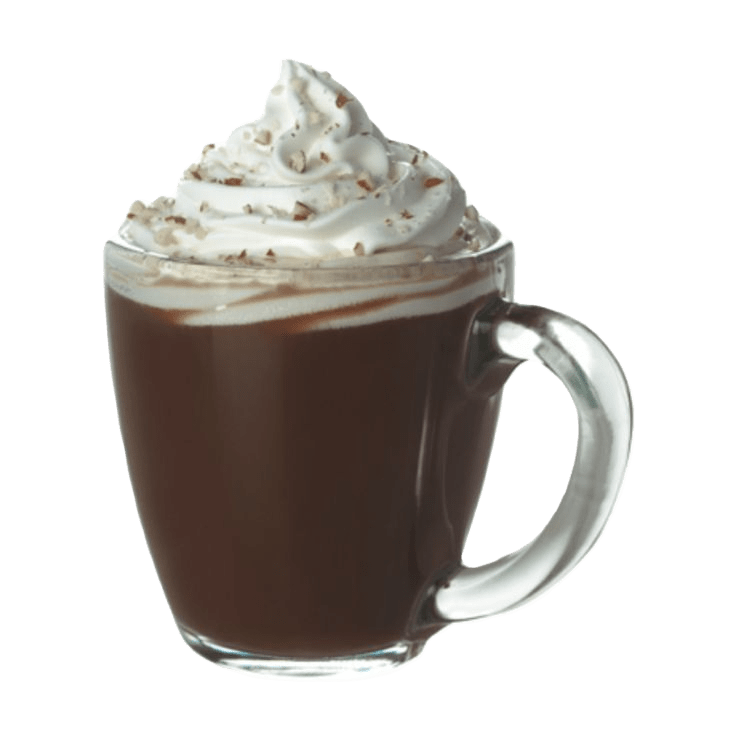
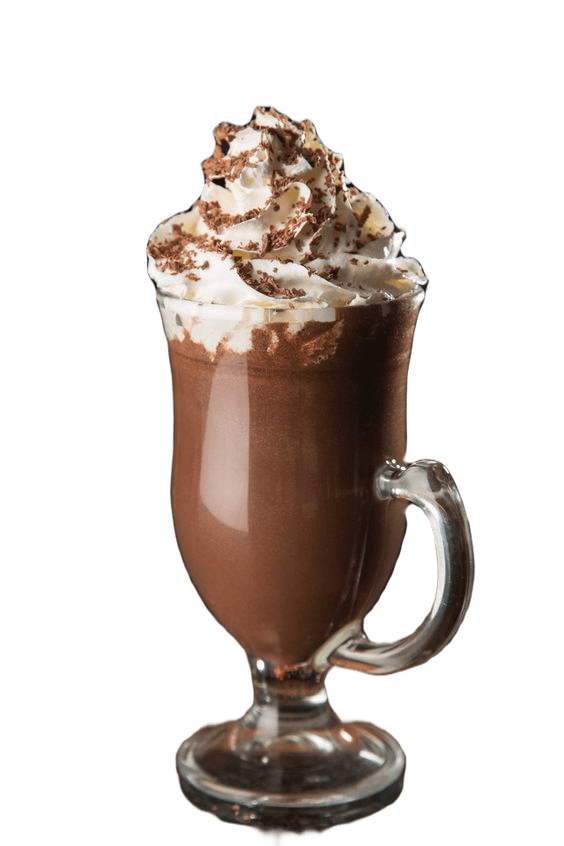
22:17

diff --git a/src/pages/Menu.js b/src/pages/Menu.js
@@ -21,6 +21,7 @@ const data = [
 // Função para renderizar cada item do carrossel
 function CarouselCardItem({ item }) {
   return (
+
     <View style={{ height: 400, 
     width: "100%", 
     justifyContent: "center", 
@@ -169,7 +170,7 @@ export default function Menu() {
 
 
         <View style={{ 
-        height: 300, 
+        height: 308, 
         width: "100%", 
         justifyContent: "center", 
         alignItems: "center", 
@@ -218,8 +219,8 @@ export default function Menu() {
         <View style={{ width: 240, top: -120, padding: 15 }}>
           <Text style={{ fontSize: 20, fontWeight: "700" }}>R$ 5,00</Text>
           <Text style={{ fontSize: 20, fontWeight: "700" }}>Café expresso</Text>
-          <Text style={{ color: "gray" }}
-          >O ...</Text>
+          <Text style={{ color: "gray", marginTop: 5, }}
+          >Um sabor intenso e inesquecivel.</Text>
           
           {/* Botão de adicionar */}
           <TouchableOpacity style={{ 
@@ -240,7 +241,7 @@ export default function Menu() {
 
 
     <View style={{ 
-        height: 190, 
+        height: 220, 
         width: "100%", 
         justifyContent: "center", 
         alignItems: "center", 
@@ -272,9 +273,9 @@ export default function Menu() {
         {/* Detalhes do item */}
         <View style={{ width: 240, top: -120, padding: 15 }}>
           <Text style={{ fontSize: 20, fontWeight: "700" }}>R$ 6,00</Text>
-          <Text style={{ fontSize: 20, fontWeight: "700" }}>Café expresso</Text>
+          <Text style={{ fontSize: 20, fontWeight: "700" }}>Café com leite</Text>
           <Text style={{ color: "gray" }}
-          >O ...</Text>
+          >Cremoso, reconfortante e cheio de sabor.</Text>
           
           {/* Botão de adicionar */}
           <TouchableOpacity style={{ 
@@ -295,7 +296,7 @@ export default function Menu() {
     
 
     <View style={{ 
-        height: 190, 
+        height: 210, 
         width: "100%", 
         justifyContent: "center", 
         alignItems: "center", 
@@ -334,10 +335,10 @@ export default function Menu() {
         
         {/* Detalhes do item */}
         <View style={{ width: 240, top: -110, padding: 15 }}>
-          <Text style={{ fontSize: 20, fontWeight: "700" }}>R$ 12,00</Text>
-          <Text style={{ fontSize: 20, fontWeight: "700" }}>Café expresso</Text>
+          <Text style={{ fontSize: 20, fontWeight: "700" }}>R$ 6,00</Text>
+          <Text style={{ fontSize: 20, fontWeight: "700" }}>Chá de hortelã</Text>
           <Text style={{ color: "gray" }}
-          >O ...</Text>
+          >Refresque seu dia com nosso chá quente de hortelã e limão</Text>
           
           {/* Botão de adicionar */}
           <TouchableOpacity style={{ 
@@ -356,7 +357,7 @@ export default function Menu() {
     </View>
 
     <View style={{ 
-        height: 190, 
+        height: 210, 
         width: "100%", 
         justifyContent: "center", 
         alignItems: "center", 
@@ -388,14 +389,130 @@ export default function Menu() {
         {/* Detalhes do item */}
         <View style={{ width: 240, top: -110, padding: 15 }}>
           <Text style={{ fontSize: 20, fontWeight: "700" }}>R$ 6,00</Text>
-          <Text style={{ fontSize: 20, fontWeight: "700" }}>Café expresso</Text>
+          <Text style={{ fontSize: 20, fontWeight: "700" }}>Chá de gengibre</Text>
           <Text style={{ color: "gray" }}
-          >O ...</Text>
+          >Explosão de sabor que aquece o corpo e acalma a alma.</Text>
           
           {/* Botão de adicionar */}
           <TouchableOpacity style={{ 
             left: 190, 
             top: 20,
+            width: 40, 
+            height: 40, 
+            borderRadius: 10, 
+            backgroundColor: "#d4a57b", 
+            justifyContent: "center", 
+            alignItems: "center" }}>
+            <AntDesign color="white" size={25} name="plus" />
+          </TouchableOpacity>
+        </View>
+      </View>
+    </View>
+
+
+
+<View style={{ 
+  height: 190, 
+  width: "100%", 
+  justifyContent: "center", 
+  alignItems: "center", 
+  backgroundColor: 'white',
+  marginTop: -15, }}>
+
+<Text style={{
+  fontSize: 15, 
+  fontFamily: "TitanOne-Regular",
+  marginBottom: 10,
+  left: -120,
+  color: '#d4a57b',}}
+  > Chocolates </Text>
+
+{/* Container para cada item */}
+<View style={{ 
+  width: 340, 
+  height: 130, 
+  alignItems: "flex-end", 
+  shadowColor: "#000", 
+  shadowOffset: { width: 0, height: 5 }, 
+  shadowOpacity: 0.5, 
+  shadowRadius: 10, 
+  elevation: 5, 
+  borderRadius: 20, 
+  backgroundColor: "white" }}>
+ 
+  {/* Imagem do item */}
+  <Image source={require("../assets/image/coffeeHot5.png")} 
+  style={{ 
+  width: 120, 
+  height: 145, 
+  position: "relative", 
+  top: -25, 
+  right: 240, }} />
+  
+  {/* Detalhes do item */}
+  <View style={{ width: 240, top: -152, padding: 15 }}>
+    <Text style={{ fontSize: 20, fontWeight: "700" }}>R$ 12,00</Text>
+    <Text style={{ fontSize: 20, fontWeight: "700" }}>Chocolate misto</Text>
+    <Text style={{ color: "gray", marginTop: 5, }}
+    > Quente, cremoso e delicioso.</Text>
+    
+    {/* Botão de adicionar */}
+    <TouchableOpacity style={{ 
+      left: 190, 
+      top: 15,
+      width: 40, 
+      height: 40, 
+      borderRadius: 10, 
+      backgroundColor: "#d4a57b", 
+      justifyContent: "center", 
+      alignItems: "center" }}>
+      <AntDesign color="white" size={25} name="plus" />
+    </TouchableOpacity>
+  </View>
+</View>
+</View>
+
+<View style={{ 
+        height: 210, 
+        width: "100%", 
+        justifyContent: "center", 
+        alignItems: "center", 
+        backgroundColor: 'white',
+        marginTop: -2, }}>
+      
+      {/* Container para cada item */}
+      <View style={{ 
+        width: 340, 
+        height: 130, 
+        alignItems: "flex-end", 
+        shadowColor: "#000", 
+        shadowOffset: { width: 0, height: 5 }, 
+        shadowOpacity: 0.5, 
+        shadowRadius: 10, 
+        elevation: 5, 
+        borderRadius: 20, 
+        backgroundColor: "white" }}>
+       
+        {/* Imagem do item */}
+        <Image source={require("../assets/image/coffeeHot6.png")} 
+        style={{ 
+        width: 100, 
+        height: 140, 
+        position: "relative", 
+        top: -15, 
+        right: 245, }} />
+        
+        {/* Detalhes do item */}
+        <View style={{ width: 240, top: -152, padding: 15 }}>
+          <Text style={{ fontSize: 20, fontWeight: "700" }}>R$ 12,00</Text>
+          <Text style={{ fontSize: 20, fontWeight: "700" }}>Chocolate quente</Text>
+          <Text style={{ color: "gray" }}
+          >Experimente o nosso delicioso chocolate quente, aconchego em cada gole.</Text>
+          
+          {/* Botão de adicionar */}
+          <TouchableOpacity style={{ 
+            left: 190, 
+            top: -9,
             width: 40, 
             height: 40, 
             borderRadius: 10, 

diff --git a/src/pages/Sobre.js b/src/pages/Sobre.js
@@ -1,0 +1,107 @@
+import { View, Image, Text } from "react-native";
+import { ScrollView } from "react-native-gesture-handler";
+
+export default function Sobre() {
+  return (
+    <ScrollView>
+        <View
+          style={{
+            height: 400,
+            width: "100%",
+            justifyContent: "center",
+            alignItems: "center",
+            marginTop: 30,
+            backgroundColor: 'white',
+          }}
+        >
+          <Image
+            source={require("../assets/image/SobreNós.png")}
+            style={{
+              width: 400,
+              height: 460,
+            }}
+          />
+        </View>
+
+      <View style={{
+            height: 250,
+            width: "100%",
+            justifyContent: "center",
+            alignItems: "center",
+            marginTop: 30,
+            backgroundColor: '#DCDCDC',
+          }}>
+        
+        <Text style={{
+        fontSize: 25, 
+        fontFamily: "TitanOne-Regular",
+        color: '#d4a57b',
+        marginTop: -15,
+        marginBottom: 20,
+        right: 100,}}
+        > Sobre nós </Text>
+      
+       <Text style={{
+        fontSize: 20,
+       }}
+       > Bem-vindo ao nosso aplicativo de cafeteria, onde a paixão pelo café encontra 
+       a conveniência moderna! Aqui, nossa missão é simples: tornar a sua experiência
+       com o café mais fácil, acessível e deliciosa do que nunca.</Text>
+
+      </View>
+
+
+      <View style={{
+            height: 230,
+            width: "100%",
+            justifyContent: "center",
+            alignItems: "center",
+            backgroundColor: '#d4a57b',
+            opacity: '10%',
+          }}>
+        
+       <Text style={{
+        fontSize: 20,
+       }}
+       > Nosso aplicativo foi criado com um objetivo claro em mente: facilitar 
+       o acesso ao seu café favorito, onde quer que você esteja. Quer seja uma 
+       pausa rápida no meio do expediente ou um momento de relaxamento em casa, 
+       estamos aqui para tornar cada gole de café uma experiência memorável.</Text>
+
+       <Text style={{
+        fontSize: 20,
+        marginTop: 30,
+       }}
+       > Além de proporcionar uma experiência de pedido fácil e rápida, também 
+       nos dedicamos a fornecer informações detalhadas sobre cada bebida. Queremos 
+       que você conheça a origem dos grãos, o processo de preparo e até mesmo a história 
+       por trás de cada criação. Acreditamos que quanto mais você conhece sobre o café,
+       mais você aprecia cada xícara.</Text>
+      </View>
+
+
+      <View style={{
+            height: 230,
+            width: "100%",
+            justifyContent: "center",
+            alignItems: "center",
+            backgroundColor: 'white',
+          }}>
+        
+       <Text style={{
+        fontSize: 20,
+       }}
+       > Estamos comprometidos em fornecer um serviço excepcional, 
+       desde o momento em que você faz o pedido até o último gole de café.
+        Nossa equipe está aqui para garantir que cada pedido seja preparado 
+        com precisão e cuidado, mantendo sempre a qualidade e o sabor que você merece.
+
+       Agradecemos por fazer parte da nossa jornada e por escolher o nosso aplicativo 
+       para satisfazer seus desejos de café. Juntos, vamos continuar a tornar cada momento
+        do seu dia um pouco mais especial, uma xícara de café de cada vez.
+       
+       Bem-vindo ao mundo do café simplificado. Bem-vindo ao nosso aplicativo de cafeteria.</Text>
+      </View>
+        </ScrollView>
+  );
+}

diff --git a/App.js b/App.js
@@ -5,7 +5,7 @@ import { styles } from "./src/style/Styles";
 import Home from "./src/pages/Home";
 import Login from "./src/pages/Login";
 import Cadastro from "./src/pages/Cadastro";
-import Saiba from "./src/pages/Saiba";
+import Sobre from "./src/pages/Sobre";
 import Menu from "./src/pages/Menu";
 import CustomDrawer from "./src/componentes/CustomDrawer";
 
@@ -31,6 +31,7 @@ export default function App() {
           drawerActiveBackgroundColor: "#d4a57b",
         }}
       >
+
         <Drawer.Screen
           name="Home"
           component={Home}
@@ -40,7 +41,7 @@ export default function App() {
         />
         <Drawer.Screen name="Login" component={Login} />
         <Drawer.Screen name="Cadastro" component={Cadastro} />
-        <Drawer.Screen name="Saiba" component={Saiba} />
+        <Drawer.Screen name="Sobre" component={Sobre} />
         <Drawer.Screen
           name="Menu"
           component={Menu}

diff --git a/src/style/Styles.js b/src/style/Styles.js
@@ -147,6 +147,8 @@ export const styles = StyleSheet.create({
   ImgSobreNós: {
     alignItems: "center",
     justifyContent: "center",
+    height: 10,
+    width: 10,
   },
 
   BtnSaibaPG: {
@@ -172,4 +174,6 @@ export const styles = StyleSheet.create({
     height: 120,
     backgroundColor: "#d4a57b",
   },
+
+
 });
